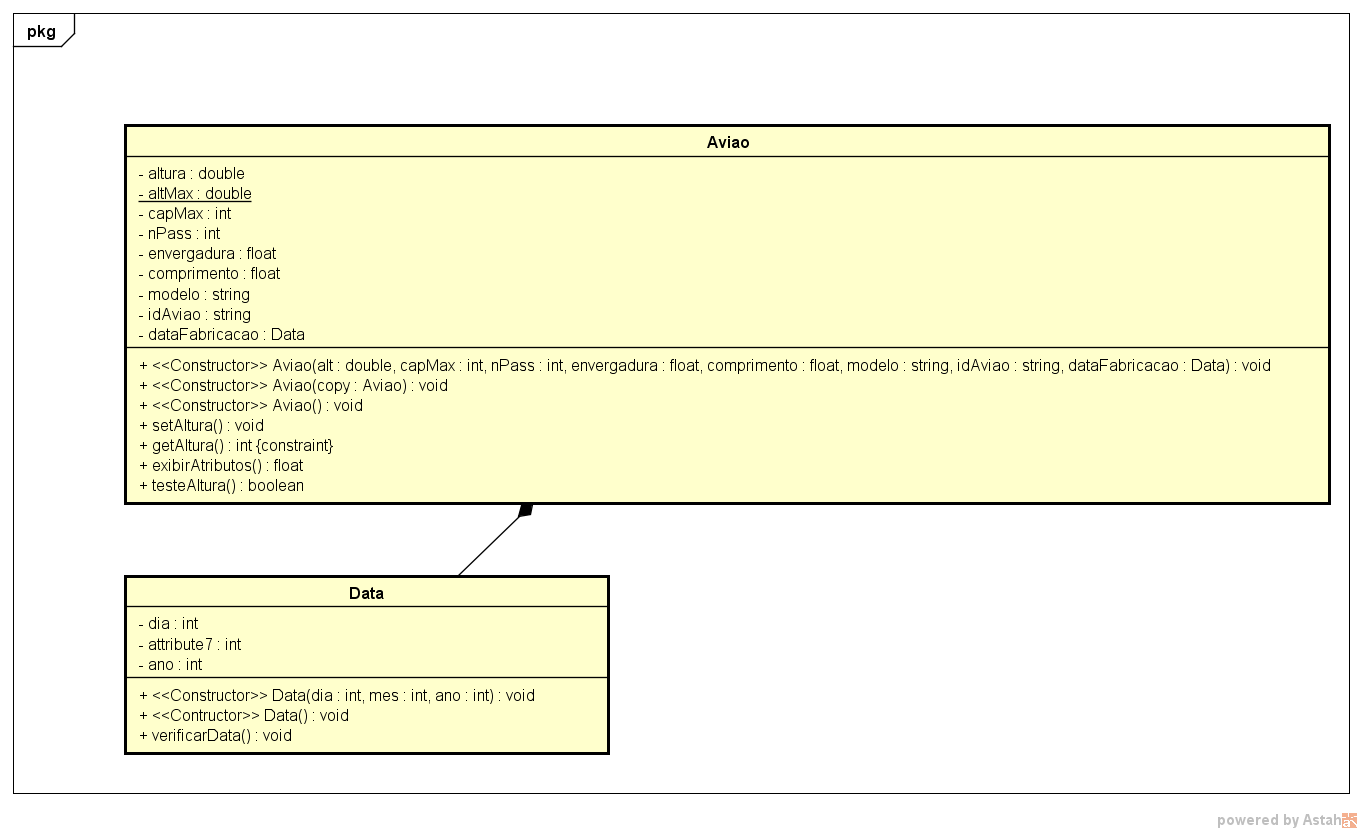
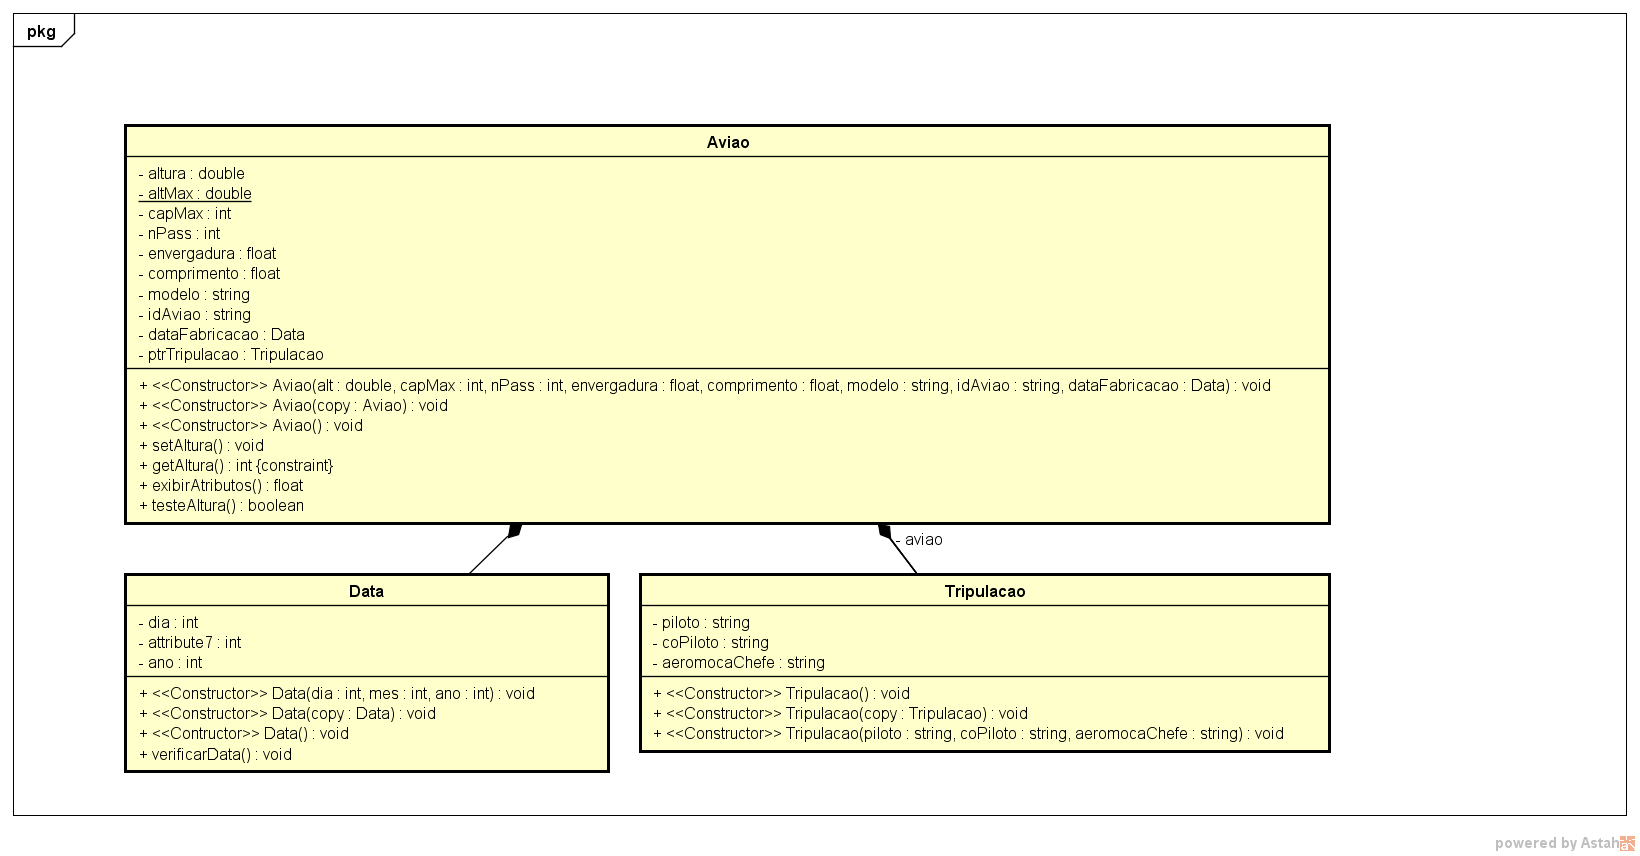
0.8

Changed region(s): [[0.0617, 0.0, 1.0, 0.9988], [0.0, 0.0, 0.0617, 0.0624]]

diff --git a/Data.cpp b/Data.cpp
@@ -1,0 +1,36 @@
+#include<iostream>
+using std::cout;
+#include "Data.h"
+
+
+Data::Data(int dia, int mes, int ano)
+{
+    this->dia=dia;
+    this->mes=mes;
+    this->ano=ano;
+}
+
+Data::Data(const Data &d)
+{
+    this->dia=d.dia;
+    this->mes=d.mes;
+    this->ano=d.ano;
+}
+
+int Data::verificarData(int dia) const
+{
+    static const int diasPorMes[13]={0,31,28,31,30,30,31,31,30,31,30,31};
+    
+    if(dia >0 && dia<= diasPorMes[mes])
+        return dia;
+    if(mes== 2 && dia == 29 &&(ano%400==0||(ano % 4 == 0 % 100 !=0)))
+        return dia;
+    cout << "Dia inválido . \n";
+    
+    return 1;
+}
+
+Data::~Data()
+{
+}
+

diff --git a/Aviao.h b/Aviao.h
@@ -1,7 +1,9 @@
 #ifndef AVIAO_H
 #define AVIAO_H
+#include "Tripulacao.h"
 #include <string>
 using std::string;
+
 
 class Aviao
 {
@@ -18,10 +20,14 @@ public:
      
 private:
     
-    int capMax,  nPass;
-    float envergadura, comprimento;
+    Tripulacao *ptrTripulacao; 
+    int capMax;
+    int nPass;
+    float envergadura;
+    float comprimento;
     double altura;    
-    string modelo,idAviao; 
+    string modelo;
+    string idAviao; 
     static double altMax;
 };
 

diff --git a/Tripulacao.h b/Tripulacao.h
@@ -1,0 +1,23 @@
+#ifndef TRIPULACAO_H
+#define TRIPULACAO_H
+#include<string>
+using std::string;
+
+class Tripulacao
+{
+public:
+
+    Tripulacao();
+    Tripulacao(string, string, string);
+    Tripulacao(const Tripulacao &);
+    ~Tripulacao();
+
+private:
+    
+    string piloto;
+    string coPiloto;
+    string aeromecaChefe;
+
+};
+
+#endif // TRIPULACAO_H

diff --git a/Data.h b/Data.h
@@ -1,0 +1,23 @@
+#ifndef DATE_H
+#define DATE_H
+
+class Data
+{
+public:
+
+    Data(int =1, int = 1, int =1);
+    Data(const Data &);
+    void mostrarData() const;
+    int verificarData(int) const;
+    ~Data();
+    
+private: 
+
+    int dia;
+    int mes;
+    int ano;
+    
+    
+};
+
+#endif // DATE_H

diff --git a/main.cpp b/main.cpp
@@ -5,8 +5,5 @@ using std::cout;
 
 int main(int argc, char **argv)
 {
-    Aviao::Aviao();
-	do{
-        Aviao::setAltura();
-    }while(Aviao::testeAltura)
+  cout<<"Fala Migo";
 }

diff --git a/Tripulacao.cpp b/Tripulacao.cpp
@@ -1,0 +1,10 @@
+#include "Tripulacao.h"
+
+Tripulacao::Tripulacao()
+{
+}
+
+Tripulacao::~Tripulacao()
+{
+}
+
